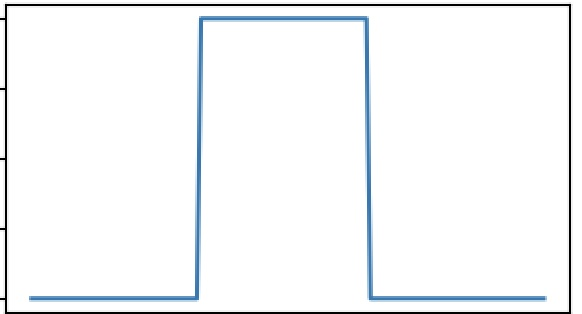
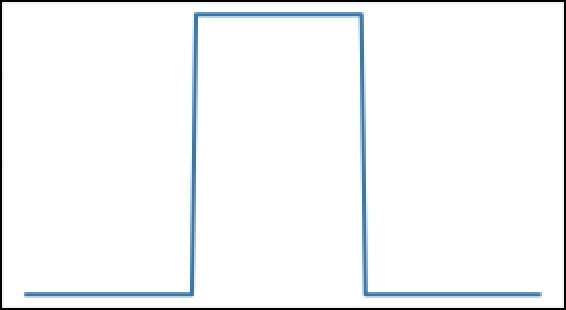
Merge pull request #154 from amal-ghamdi/main
Update chapters introductions

Pull request: Update chapters introductions
closes #136 

The rendered book can be seen in https://amal-ghamdi.github.io/CUQI-Book-test/

Additionally, this PR removes some placeholders and adds small updates in a few notebooks (all changes can be seen in the `Files changed` and the provided link above).

Changed region(s): [[0.0, 0.0, 1.0, 1.0]]

diff --git a/chapter01_c/chapter01_c.md b/chapter01_c/chapter01_c.md
@@ -1,7 +1,3 @@
 # Chapter 4: Distributions, random variables, and priors in CUQIpy
 
-⚠️ **add intro paragraph here**
-
-
-
-
+In this chapter, we introduce the concepts of distributions and random variables in CUQIpy, and how to use them to define priors for Bayesian inverse problems. We also showcase a collection of predefined distributions intended for testing sampling algorithms. We discuss defining and using random fields in CUQIpy as well as how to use random variables to define hierarchical priors. Additionally, we provide an overview of implicit priors in CUQIpy.

diff --git a/chapter01_b/chapter01_b.md b/chapter01_b/chapter01_b.md
@@ -1,7 +1,4 @@
 # Chapter 3: Introduction to Bayesian Inverse Problems (BIPs) in CUQIpy
 
 
-⚠️ **add intro paragraph here**
-
-
-
+In this chapter, we provide a very simple example of solving a Bayesian inverse problem (BIP) using CUQIpy: "Probably the simplest BIP in the world". This example is presented in two versions: A short version which is compact and designed for a quick demonstration of using CUQIpy to solve a BIP, and a long version which explains more details about the code and provides some exercises.

diff --git a/chapter01_e/chapter01_e.md b/chapter01_e/chapter01_e.md
@@ -1,4 +1,4 @@
 # Chapter 6: Solving BIPs in CUQIpy
 
-> ⚠️ **Contents to be added:** Add intro to the chapter. 
-
+In this chapter, we introduce how to formulate and solve Bayesian Inverse Problems (BIPs) in CUQIpy. Using a deconvolution problem as an example, we illustrate two 
+main approaches of setting up BIPs in CUQIpy, a high-level approach and a low-level approach. We also provide an example of a PDE-based BIP.

diff --git a/chapter01_d/chapter01_d.md b/chapter01_d/chapter01_d.md
@@ -1,4 +1,3 @@
 # Chapter 5: Forward models, data generation, and forward UQ
 
-> ⚠️ **Contents to be added:** Add intro to the chapter. 
-
+In this chapter, we introduce forward models in CUQIpy. We provide many examples of predefined forward models, and show how to define custom forward models. We also discuss how to use forward models in CUQIpy to generate synthetic data and how to perform forward uncertainty quantification (UQ).

diff --git a/chapter01_p/chapter01_p.md b/chapter01_p/chapter01_p.md
@@ -1,4 +1,3 @@
 # Chapter 14: More applications and benchmarks using CUQIpy
 
-> ⚠️ **Contents to be added:** add intro to the chapter. 
-
+In this chapter, we highlight the [CUQIpy User Showcase repository](https://github.com/CUQI-DTU/CUQIpy-User-Showcase) which is a collection of application problems that use CUQIpy in various BIPs. These cases were contributed by users of CUQIpy. We also highlight a [benchmark collection](https://github.com/CUQI-DTU/CUQIpy-Benchmarks) of BIPs that were built using CUQIpy for the purpose of providing a common ground for testing and comparing different sampling methods in CUQIpy and other libraries.

diff --git a/chapter01/chapter01.md b/chapter01/chapter01.md
@@ -1,4 +1,4 @@
 # Chapter 2: Introduction to CUQIpy
 
-In this chapter, we introduce the CUQIpy package and its main features. We provide information on how to run the code notebooks in this book. We also provide a very simple example of solving a Bayesian inverse problem (BIP) using CUQIpy: "Probably the simplest BIP in the world". This example is presented in two versions: A short version which is right to the point and a long version which explains more details about the code and gives some exercises.
+In this chapter, we introduce the CUQIpy package and its main features. We also provide information on how to run the code notebooks in this book.
 

diff --git a/chapter01_f/chapter01_f.md b/chapter01_f/chapter01_f.md
@@ -1,3 +1,3 @@
 # Chapter 7: More on CUQIpy technical details
 
->⚠️ **Contents to be added:** Add intro to the chapter. We can also add links to documentation and howtos to refer the user for more technical details.
+This chapter discusses some technical details of CUQIpy for further reference. We discuss in particular the concept of `geometries` in CUQIpy. The reader can also refer to CUQIpy documentation for [API reference](https://cuqi-dtu.github.io/CUQIpy/api/index.html) and additional [how-to guides](https://cuqi-dtu.github.io/CUQIpy/user/_auto_howtos/index.html) for more technical demonstrations.

diff --git a/chapter01_g/chapter01_g.md b/chapter01_g/chapter01_g.md
@@ -1,3 +1,3 @@
 # Chapter 8: Background on sampling methods
 
-> ⚠️ **Contents to be added:** Add intro to the chapter. 
+In this chapter, we provide a brief introduction of some of the basic and more advanced sampling methods that are used in CUQIpy. We illustrate how these methods can be used in CUQIpy, along with comparing their performance on selected BIPs.

diff --git a/chapter01_h/chapter01_h.md b/chapter01_h/chapter01_h.md
@@ -1,3 +1,3 @@
 # Chapter 9: Hybrid Gibbs sampling in CUQIpy
 
-> ⚠️ **Contents to be added:** Add intro to the chapter. 
+In this chapter, we introduce the hybrid Gibbs sampling framework in CUQIpy. We focus mainly on two cases. The first case is using this framework to sample from a posterior distribution of a BIP with hyperparameters. The second case is using this framework to sample from a posterior distribution of a BIP in which the forward model has multiple, distinct input parameters, that may be of different nature and dimensionality, and require different priors.

diff --git a/chapter01_k/chapter01_k.md b/chapter01_k/chapter01_k.md
@@ -1,3 +1,3 @@
 # Chapter 10: Sampling with CUQIpy-PyTorch
 
-> ⚠️ **Contents to be added:** Add intro to the chapter.
+In this chapter, we introduce the [CUQIpy-PyTorch plugin](https://github.com/CUQI-DTU/CUQIpy-PyTorch), which allows users to combine modeling capabilities of CUQIpy with the powerful automatic differentiation and GPU acceleration features of PyTorch. The use of this plugin is illustrated through an example of solving a deconvolution BIP.

diff --git a/chapter01_n/chapter01_n.md b/chapter01_n/chapter01_n.md
@@ -1,3 +1,3 @@
 #  Chapter 12: X-ray Computed Tomography (CT)
 
-> ⚠️ **Contents to be added:** add intro to the chapter. 
+In this chapter, we present the [CUQIpy-CIL plugin](https://github.com/CUQI-DTU/CUQIpy-CIL), which allows interfacing CUQIpy with the [Core Imaging Library (CIL)](https://tomographicimaging.github.io/CIL/) for Computed Tomography (CT) problems. We illustrate setting up and solving a CT BIP in CUQIpy using the CUQIpy-CIL plugin, and show how to use CIL to obtain a deterministic solution for comparison.

diff --git a/chapter01_o/chapter01_o.md b/chapter01_o/chapter01_o.md
@@ -1,3 +1,3 @@
 # Chapter 13: PDE-based BIP
 
-> ⚠️ **Contents to be added:** Add intro to the chapter. 
+In this chapter, we discuss solving PDE-based BIPs in CUQIpy. We illustrate this through two examples. The first one uses CUQIpy library to set up and solve a heat equation-based BIP. The second example uses the [CUQIpy-FEniCS plugin](https://github.com/CUQI-DTU/CUQIpy-FEniCS) to interface CUQIpy with [FEniCS](https://fenicsproject.org/) for modeling and solving PDEs using the finite element method. The latter example sets up and solves a 2D Poisson equation-based BIP.